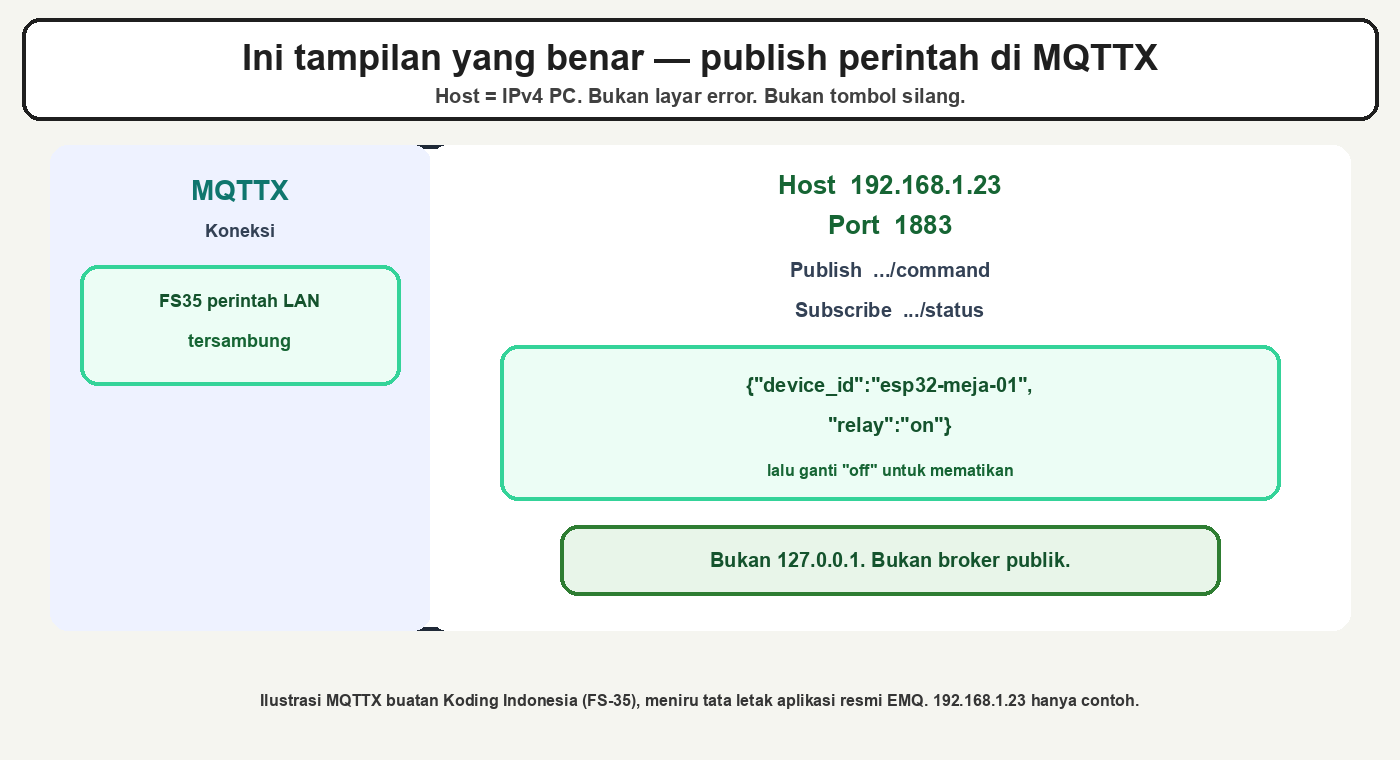
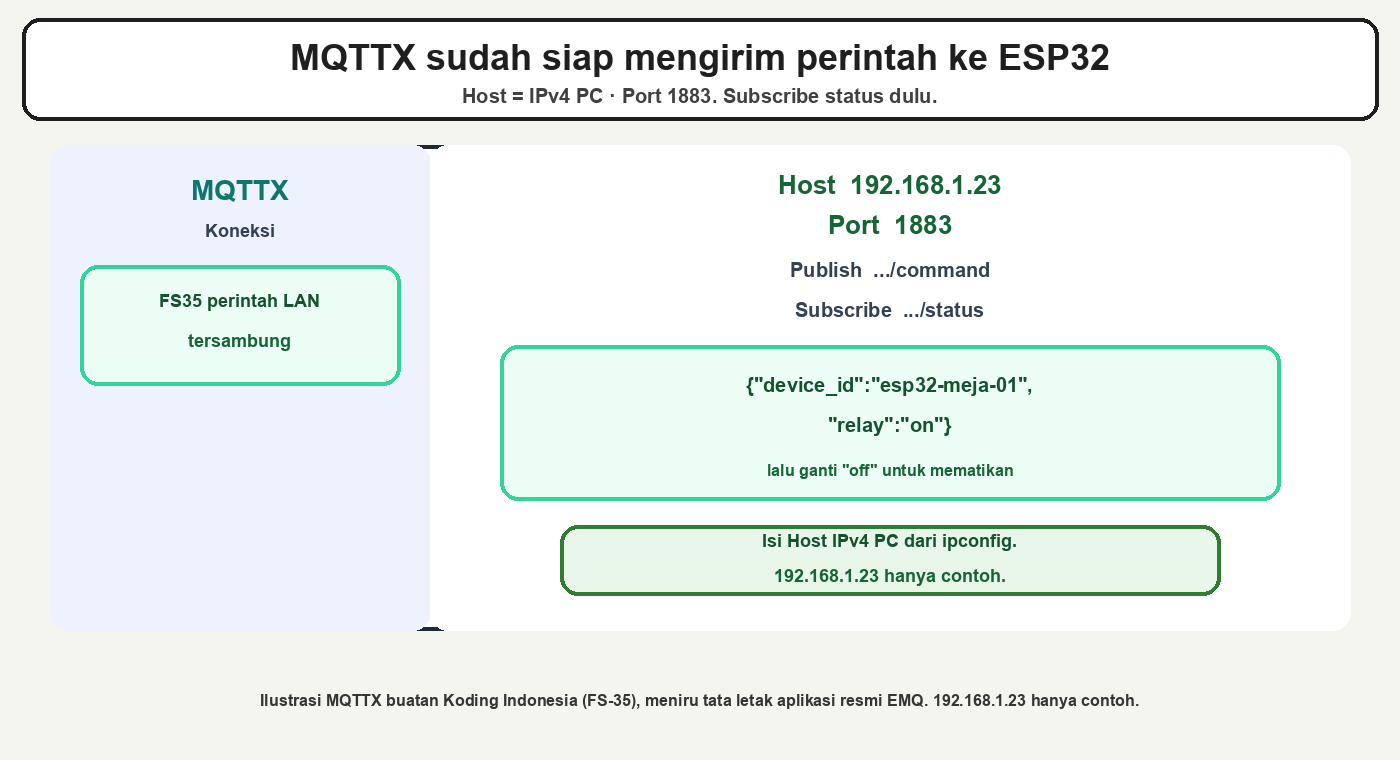
fix(fsiot): rewrite FS-35 captions that sounded like an error
Replace Library Manager and MQTTX copy that said bukan layar error with concrete steps: book icon plus INSTALL, and MQTTX ready to send a command at the PC IPv4 host.

Changed region(s): [[0.1536, 0.0605, 0.8293, 0.1513], [0.4914, 0.6961, 0.7679, 0.7868]]

diff --git a/database/seeders/Article105Seeder.php b/database/seeders/Article105Seeder.php
@@ -226,12 +226,12 @@ class Article105Seeder extends Seeder
     {
         $sketch = htmlspecialchars($this->sketch(), ENT_QUOTES, 'UTF-8');
         $tools = $this->figure('fs35-tools-order.png', 'Urutan lima langkah: browser, Arduino IDE, kabel relay, PowerShell, lalu MQTTX', '<strong>Urutan meja kerja (lima langkah):</strong> browser → Arduino IDE (ikon buku) → kabel relay → PowerShell untuk IP dan broker → MQTTX. Connect MQTTX hanya setelah angka <code>1883</code> terlihat. Diagram buatan Koding Indonesia (FS-35).');
-        $library = $this->figure('fs35-library-manager.png', 'Ilustrasi Library Manager Arduino IDE 2: ikon tiga buku, pencarian ArduinoMqttClient, tombol INSTALL, papan ESP32', '<strong>Ini tampilan yang benar, bukan layar error.</strong> Ikon tiga buku di bilah kiri. Cari <em>ArduinoMqttClient</em>, lalu <em>ArduinoJson</em>. Papan di pojok kanan adalah <strong>ESP32</strong>, bukan UNO. Jika FS-34 sudah selesai, library biasanya sudah ada. Ilustrasi buatan Koding Indonesia (FS-35), meniru Arduino IDE 2. Screenshot jendela resmi tidak dipakai utuh karena gelap dan menampilkan papan UNO. Acuan langkah: <a href="https://docs.arduino.cc/software/ide-v2/tutorials/ide-v2-installing-a-library/" target="_blank" rel="noopener noreferrer">Installing libraries — Arduino IDE 2</a>, Arduino S.r.l. Dokumentasi Arduino berlisensi Creative Commons Attribution-Share Alike 4.0.');
+        $library = $this->figure('fs35-library-manager.png', 'Ilustrasi Library Manager Arduino IDE 2: ikon tiga buku, pencarian ArduinoMqttClient, tombol INSTALL, papan ESP32', '<strong>Klik ikon tiga buku di bilah kiri.</strong> Cari <em>ArduinoMqttClient</em>, lalu <em>ArduinoJson</em>. Papan di pojok kanan adalah <strong>ESP32</strong>, bukan UNO. Jika FS-34 sudah selesai, library biasanya sudah ada. Ilustrasi buatan Koding Indonesia (FS-35), meniru Arduino IDE 2. Screenshot jendela resmi tidak dipakai utuh karena gelap dan menampilkan papan UNO. Acuan langkah: <a href="https://docs.arduino.cc/software/ide-v2/tutorials/ide-v2-installing-a-library/" target="_blank" rel="noopener noreferrer">Installing libraries — Arduino IDE 2</a>, Arduino S.r.l. Dokumentasi Arduino berlisensi Creative Commons Attribution-Share Alike 4.0.');
         $wiring = $this->figure('fs35-wiring-relay.png', 'Wiring modul relay 5V ke ESP32 menurut label VCC, IN, dan GND', '<strong>Gambar utama — wiring.</strong> Cocokkan tulisan pin: VCC atau + → 5V, IN atau S → GPIO 26, GND atau − → GND. Urutan kaki fisik bisa berbeda antarmodul. Terminal NC/COM/NO hari ini kosong. Diagram buatan Koding Indonesia (FS-35).');
         $relayPhoto = $this->figure('kit-relay-5v.jpg', 'Contoh rupa modul relay 1 channel 5V Songle dengan terminal sekrup dan tiga pin S plus minus', '<strong>Contoh rupa modul saja.</strong> Foto ini membantu mengenali relay kit. <strong>Jangan menyalin urutan kaki dari foto.</strong> Wiring tetap menurut tulisan pin: VCC/+ → 5V, IN/S → GPIO 26, GND/− → GND. Terminal sekrup kiri adalah jalur beban NC/COM/NO — <strong>bukan</strong> pin ke ESP32, dan <strong>bukan AC 220V</strong>. Sumber: <a href="https://commons.wikimedia.org/wiki/File:SRD-05VDC-SL-C_5V_one-channel_relay_module.jpg" target="_blank" rel="noopener noreferrer">SRD-05VDC-SL-C 5V one-channel relay module</a> · Suyash Dwivedi · Wikimedia Commons · Creative Commons Attribution-Share Alike 4.0.');
         $lan = $this->figure('fs35-lan-address.png', 'ESP32 memakai alamat IPv4 LAN PC, bukan localhost atau 127.0.0.1', '<strong>Aturan penting:</strong> <code>127.0.0.1</code> pada ESP32 berarti ESP32 itu sendiri. Gunakan IPv4 PC dari <code>ipconfig</code>. Diagram buatan Koding Indonesia (FS-35).');
         $flow = $this->figure('fs35-command-flow.png', 'Alur kiri ke kanan: MQTTX, Mosquitto, ESP32, lalu relay; status JSON kembali lewat Mosquitto', '<strong>Gambar utama — alur perintah.</strong> Baca dari kiri ke kanan: MQTTX → Mosquitto → ESP32 → relay. Status JSON kembali lewat Mosquitto ke MQTTX pada topic <code>status</code>. Diagram buatan Koding Indonesia (FS-35).');
-        $mqttx = $this->figure('fs35-mqttx-publish.png', 'Ilustrasi MQTTX tersambung ke IPv4 PC, subscribe status, dan publish JSON relay on', '<strong>Ini tampilan yang benar, bukan layar error.</strong> Tulisan MQTTX di kiri bukan tombol silang. Host = IPv4 PC, Port = <code>1883</code>. Subscribe topic <code>status</code>, lalu publish JSON ke topic <code>command</code>. Jangan salin Host dari screenshot internet. Ilustrasi buatan Koding Indonesia (FS-35), meniru tata letak aplikasi resmi <a href="https://mqttx.app/" target="_blank" rel="noopener noreferrer">MQTTX oleh EMQ</a> (Apache License 2.0). Screenshot jendela resmi tidak dipakai utuh karena menampilkan broker publik. Angka <code>192.168.1.23</code> hanya contoh.');
+        $mqttx = $this->figure('fs35-mqttx-publish.png', 'Ilustrasi jendela MQTTX yang sudah siap mengirim perintah: Host IPv4 PC, subscribe status, publish command', '<strong>MQTTX sudah siap mengirim perintah ke ESP32.</strong> Host = IPv4 PC, Port = <code>1883</code>. Subscribe topic <code>status</code>, lalu publish JSON ke topic <code>command</code>. Jangan salin Host dari screenshot internet. Ilustrasi buatan Koding Indonesia (FS-35), meniru tata letak aplikasi resmi <a href="https://mqttx.app/" target="_blank" rel="noopener noreferrer">MQTTX oleh EMQ</a> (Apache License 2.0). Screenshot jendela resmi tidak dipakai utuh karena menampilkan broker publik. Angka <code>192.168.1.23</code> hanya contoh.');
         $troubleshooting = $this->figure('fs35-troubleshooting.png', 'Empat pemeriksaan jika relay ESP32 belum berklik setelah perintah MQTT', '<strong>Skema bantu.</strong> Periksa kabel relay, Wi-Fi, broker serta IP PC, lalu topic dan JSON di MQTTX. Diagram buatan Koding Indonesia (FS-35).');
         $install = $this->stepsCard([
             ['title' => 'Buka browser', 'text' => 'Pakai Chrome, Firefox, Edge, atau Safari. Siapkan artikel ini. Jangan Upload sketch dulu.'],
@@ -434,12 +434,12 @@ HTML;
     {
         $sketch = htmlspecialchars($this->sketch(), ENT_QUOTES, 'UTF-8');
         $tools = $this->figure('fs35-tools-order.png', 'Five-step tool order: browser, Arduino IDE, relay wiring, PowerShell, then MQTTX', '<strong>Desk order (five steps):</strong> browser → Arduino IDE (book icon) → relay wiring → PowerShell for IP and broker → MQTTX. Connect MQTTX only after <code>1883</code> is visible. Diagram by Koding Indonesia (FS-35).');
-        $library = $this->figure('fs35-library-manager.png', 'Arduino IDE 2 Library Manager illustration: three-book icon, ArduinoMqttClient search, INSTALL, ESP32 board', '<strong>This is the correct view, not an error screen.</strong> The three-book icon in the left bar. Search <em>ArduinoMqttClient</em>, then <em>ArduinoJson</em>. The board in the top-right is an <strong>ESP32</strong>, not an UNO. If FS-34 is already done, the libraries are usually already there. Illustration by Koding Indonesia (FS-35), modelled on Arduino IDE 2. The official window screenshot is not used as-is because it is dimmed and shows an UNO. Step reference: <a href="https://docs.arduino.cc/software/ide-v2/tutorials/ide-v2-installing-a-library/" target="_blank" rel="noopener noreferrer">Installing libraries — Arduino IDE 2</a>, Arduino S.r.l. Arduino documentation is licensed under Creative Commons Attribution-Share Alike 4.0.');
+        $library = $this->figure('fs35-library-manager.png', 'Arduino IDE 2 Library Manager illustration: three-book icon, ArduinoMqttClient search, INSTALL, ESP32 board', '<strong>Click the three-book icon in the left bar.</strong> Search <em>ArduinoMqttClient</em>, then <em>ArduinoJson</em>. The board in the top-right is an <strong>ESP32</strong>, not an UNO. If FS-34 is already done, the libraries are usually already there. Illustration by Koding Indonesia (FS-35), modelled on Arduino IDE 2. The official window screenshot is not used as-is because it is dimmed and shows an UNO. Step reference: <a href="https://docs.arduino.cc/software/ide-v2/tutorials/ide-v2-installing-a-library/" target="_blank" rel="noopener noreferrer">Installing libraries — Arduino IDE 2</a>, Arduino S.r.l. Arduino documentation is licensed under Creative Commons Attribution-Share Alike 4.0.');
         $wiring = $this->figure('fs35-wiring-relay.png', 'Five-volt relay module wiring to ESP32 by VCC, IN, and GND labels', '<strong>Main figure — wiring.</strong> Match the printed labels: VCC or + → 5V, IN or S → GPIO 26, GND or − → GND. Physical pin order can differ between modules. Leave NC/COM/NO empty today. Diagram by Koding Indonesia (FS-35).');
         $relayPhoto = $this->figure('kit-relay-5v.jpg', 'Example 5V one-channel Songle relay module with screw terminals and three S plus minus pins', '<strong>Appearance example only.</strong> This photo helps you recognise a kit relay. <strong>Do not copy pin order from the photo.</strong> Wiring still follows the printed labels: VCC/+ → 5V, IN/S → GPIO 26, GND/− → GND. The left screw terminals are the NC/COM/NO load path — <strong>not</strong> ESP32 pins, and <strong>not AC mains</strong>. Source: <a href="https://commons.wikimedia.org/wiki/File:SRD-05VDC-SL-C_5V_one-channel_relay_module.jpg" target="_blank" rel="noopener noreferrer">SRD-05VDC-SL-C 5V one-channel relay module</a> · Suyash Dwivedi · Wikimedia Commons · Creative Commons Attribution-Share Alike 4.0.');
         $lan = $this->figure('fs35-lan-address.png', 'ESP32 uses the PC LAN IPv4 address, not localhost or 127.0.0.1', '<strong>Important:</strong> <code>127.0.0.1</code> on ESP32 means ESP32 itself. Use the PC IPv4 from <code>ipconfig</code>. Diagram by Koding Indonesia (FS-35).');
         $flow = $this->figure('fs35-command-flow.png', 'Left-to-right flow: MQTTX, Mosquitto, ESP32, then relay; JSON status returns through Mosquitto', '<strong>Main figure — command flow.</strong> Read left to right: MQTTX → Mosquitto → ESP32 → relay. JSON status returns through Mosquitto to MQTTX on the <code>status</code> topic. Diagram by Koding Indonesia (FS-35).');
-        $mqttx = $this->figure('fs35-mqttx-publish.png', 'MQTTX illustration connected to the PC IPv4, subscribed to status, publishing relay-on JSON', '<strong>This is the correct view, not an error screen.</strong> The MQTTX label on the left is not a close button. Host = the PC IPv4, Port = <code>1883</code>. Subscribe to <code>status</code>, then publish JSON to <code>command</code>. Do not copy a Host from an internet screenshot. Illustration by Koding Indonesia (FS-35), modelled on the official <a href="https://mqttx.app/" target="_blank" rel="noopener noreferrer">MQTTX by EMQ</a> layout (Apache License 2.0). The official window screenshot is not used as-is because it shows a public broker. The address <code>192.168.1.23</code> is only an example.');
+        $mqttx = $this->figure('fs35-mqttx-publish.png', 'Illustration of MQTTX ready to send a command: PC IPv4 Host, subscribe status, publish command', '<strong>MQTTX is ready to send a command to the ESP32.</strong> Host = the PC IPv4, Port = <code>1883</code>. Subscribe to <code>status</code>, then publish JSON to <code>command</code>. Do not copy a Host from an internet screenshot. Illustration by Koding Indonesia (FS-35), modelled on the official <a href="https://mqttx.app/" target="_blank" rel="noopener noreferrer">MQTTX by EMQ</a> layout (Apache License 2.0). The official window screenshot is not used as-is because it shows a public broker. The address <code>192.168.1.23</code> is only an example.');
         $troubleshooting = $this->figure('fs35-troubleshooting.png', 'Four checks when the ESP32 relay has not clicked after an MQTT command', '<strong>Helper schematic.</strong> Check relay wiring, Wi-Fi, broker and PC IP, then the MQTTX topic and JSON. Diagram by Koding Indonesia (FS-35).');
         $install = $this->stepsCard([
             ['title' => 'Open a browser', 'text' => 'Use Chrome, Firefox, Edge, or Safari. Keep this guide ready. Do not Upload a sketch yet.'],

diff --git a/scripts/audit-article105.php b/scripts/audit-article105.php
@@ -57,7 +57,8 @@ check105('tools-first instructions', str_contains($body, 'Buka browser') && str_
 check105('numbered install cards exist', str_contains($body, 'list-style:none') && str_contains($body, 'Buka MQTTX setelah broker berjalan') && str_contains($bodyEn, 'Open MQTTX after the broker is running'));
 check105('tools are named before sketch', strpos($body, 'Buka Arduino IDE') < strpos($body, '#include &lt;WiFi.h&gt;') && str_contains($body, 'Buka dulu PowerShell') && str_contains($body, 'Buka MQTTX setelah broker berjalan'));
 check105('Arduino IDE library path is a single beginner instruction', str_contains($body, 'ikon tiga buku') && str_contains($body, 'satu-satunya jalur yang dipakai hari ini') && str_contains($body, 'Jangan memakai menu lama') && ! str_contains($body, 'Sketch → Include Library'));
-check105('MQTTX illustration is not an official public-broker screenshot', str_contains($body, 'Ini tampilan yang benar, bukan layar error') && str_contains($bodyEn, 'This is the correct view, not an error screen') && str_contains($body, 'Screenshot jendela resmi tidak dipakai utuh') && str_contains($bodyEn, 'official window screenshot is not used as-is') && str_contains($body, 'bukan tombol silang') && str_contains($bodyEn, 'not a close button'));
+check105('Library Manager describes the book-icon step without saying error', str_contains($body, 'Klik ikon tiga buku di bilah kiri') && str_contains($bodyEn, 'Click the three-book icon in the left bar') && str_contains($body, 'Screenshot jendela resmi tidak dipakai utuh') && str_contains($bodyEn, 'official window screenshot is not used as-is') && ! str_contains($body, 'Ini tampilan yang benar, bukan layar error') && ! str_contains($bodyEn, 'This is the correct view, not an error screen'));
+check105('MQTTX command state describes Host/JSON without saying error', str_contains($body, 'MQTTX sudah siap mengirim perintah ke ESP32') && str_contains($bodyEn, 'MQTTX is ready to send a command to the ESP32') && ! str_contains($body, 'bukan layar error') && ! str_contains($body, 'bukan tombol silang') && ! str_contains($bodyEn, 'not an error screen') && ! str_contains($bodyEn, 'not a close button'));
 check105('Arduino licence is cited', str_contains($body, 'Creative Commons Attribution-Share Alike 4.0') && str_contains($bodyEn, 'Creative Commons Attribution-Share Alike 4.0'));
 check105('relay photo is cited and pin-order copying is forbidden', str_contains($body, 'kit-relay-5v.jpg') && str_contains($body, 'SRD-05VDC-SL-C_5V_one-channel_relay_module.jpg') && str_contains($body, 'Jangan menyalin urutan kaki dari foto') && str_contains($bodyEn, 'Do not copy pin order from the photo'));
 check105('relay wiring is explicit', str_contains($body, 'GPIO 26') && str_contains($body, '5V') && str_contains($body, 'IN atau S'));

diff --git a/scripts/gen-fs35-assets.py b/scripts/gen-fs35-assets.py
@@ -159,7 +159,7 @@ save(image, 'fs35-command-flow.png')
 # MQTTX publish illustration — light chrome so it does not look like a broken image on the dark site
 image = Image.new('RGB', (1400, 760), '#f5f5f0')
 draw = ImageDraw.Draw(image)
-header(draw, 1400, 'Ini tampilan yang benar — publish perintah di MQTTX', 'Host = IPv4 PC. Bukan layar error. Bukan tombol silang.')
+header(draw, 1400, 'MQTTX sudah siap mengirim perintah ke ESP32', 'Host = IPv4 PC · Port 1883. Subscribe status dulu.')
 box(draw, (50, 145, 1350, 630), '#ffffff', '#1f2937', 4)
 box(draw, (50, 145, 430, 630), '#eef2ff', '#cbd5e1', 0)
 text(draw, 240, 190, 'MQTTX', 28, '#0f766e')
@@ -177,7 +177,8 @@ text(draw, 890, 385, '{"device_id":"esp32-meja-01",', 20, '#14532d')
 text(draw, 890, 425, '"relay":"on"}', 20, '#14532d')
 text(draw, 890, 470, 'lalu ganti "off" untuk mematikan', 16, '#166534')
 box(draw, (560, 525, 1220, 595), '#e8f5e9', '#2e7d32', 4)
-text(draw, 890, 560, 'Bukan 127.0.0.1. Bukan broker publik.', 20, '#14532d')
+text(draw, 890, 540, 'Isi Host IPv4 PC dari ipconfig.', 18, '#14532d')
+text(draw, 890, 575, '192.168.1.23 hanya contoh.', 18, '#166534')
 text(draw, 700, 700, 'Ilustrasi MQTTX buatan Koding Indonesia (FS-35), meniru tata letak aplikasi resmi EMQ. 192.168.1.23 hanya contoh.', 16, '#353535')
 save(image, 'fs35-mqttx-publish.png')
 
@@ -207,7 +208,7 @@ save(image, 'fs35-troubleshooting.png')
 # Library Manager — official Arduino screenshots look dimmed/broken on the dark site
 image = Image.new('RGB', (1400, 760), '#f5f5f0')
 draw = ImageDraw.Draw(image)
-header(draw, 1400, 'Ini tampilan yang benar, bukan layar error', 'Klik ikon tiga buku. Papan contoh: ESP32, bukan UNO')
+header(draw, 1400, 'Klik ikon tiga buku di Arduino IDE 2', 'Cari ArduinoMqttClient, lalu ArduinoJson.')
 box(draw, (40, 145, 1360, 620), '#ffffff', '#1f2937', 4)
 box(draw, (40, 145, 1360, 198), '#0f172a', '#0f172a', 0)
 text(draw, 380, 172, 'FS35_mqtt_relay_command  ·  Arduino IDE 2', 20, '#e2e8f0')
@@ -239,8 +240,8 @@ text(draw, 940, 295, '}', 22, '#94a3b8')
 text(draw, 940, 350, 'void loop() {', 22, '#94a3b8')
 text(draw, 940, 395, '}', 22, '#94a3b8')
 box(draw, (620, 450, 1260, 575), '#e8f5e9', '#2e7d32', 4)
-text(draw, 940, 490, 'Ini tampilan yang benar, bukan layar error.', 22, '#14532d')
-text(draw, 940, 535, 'Bukan menu Tools lama. Bukan screenshot gelap.', 18, '#166534')
+text(draw, 940, 490, 'Ketik ArduinoMqttClient, lalu INSTALL.', 20, '#14532d')
+text(draw, 940, 535, 'Papan di kanan: ESP32 Dev Module.', 18, '#166534')
 arrow(draw, (118, 410), (210, 410), '#f59e0b', 6, 14)
 text(draw, 700, 700, 'Ilustrasi buatan Koding Indonesia (FS-35), meniru Arduino IDE 2. Acuan: docs.arduino.cc (CC BY-SA 4.0).', 16, '#353535')
 save(image, 'fs35-library-manager.png')
